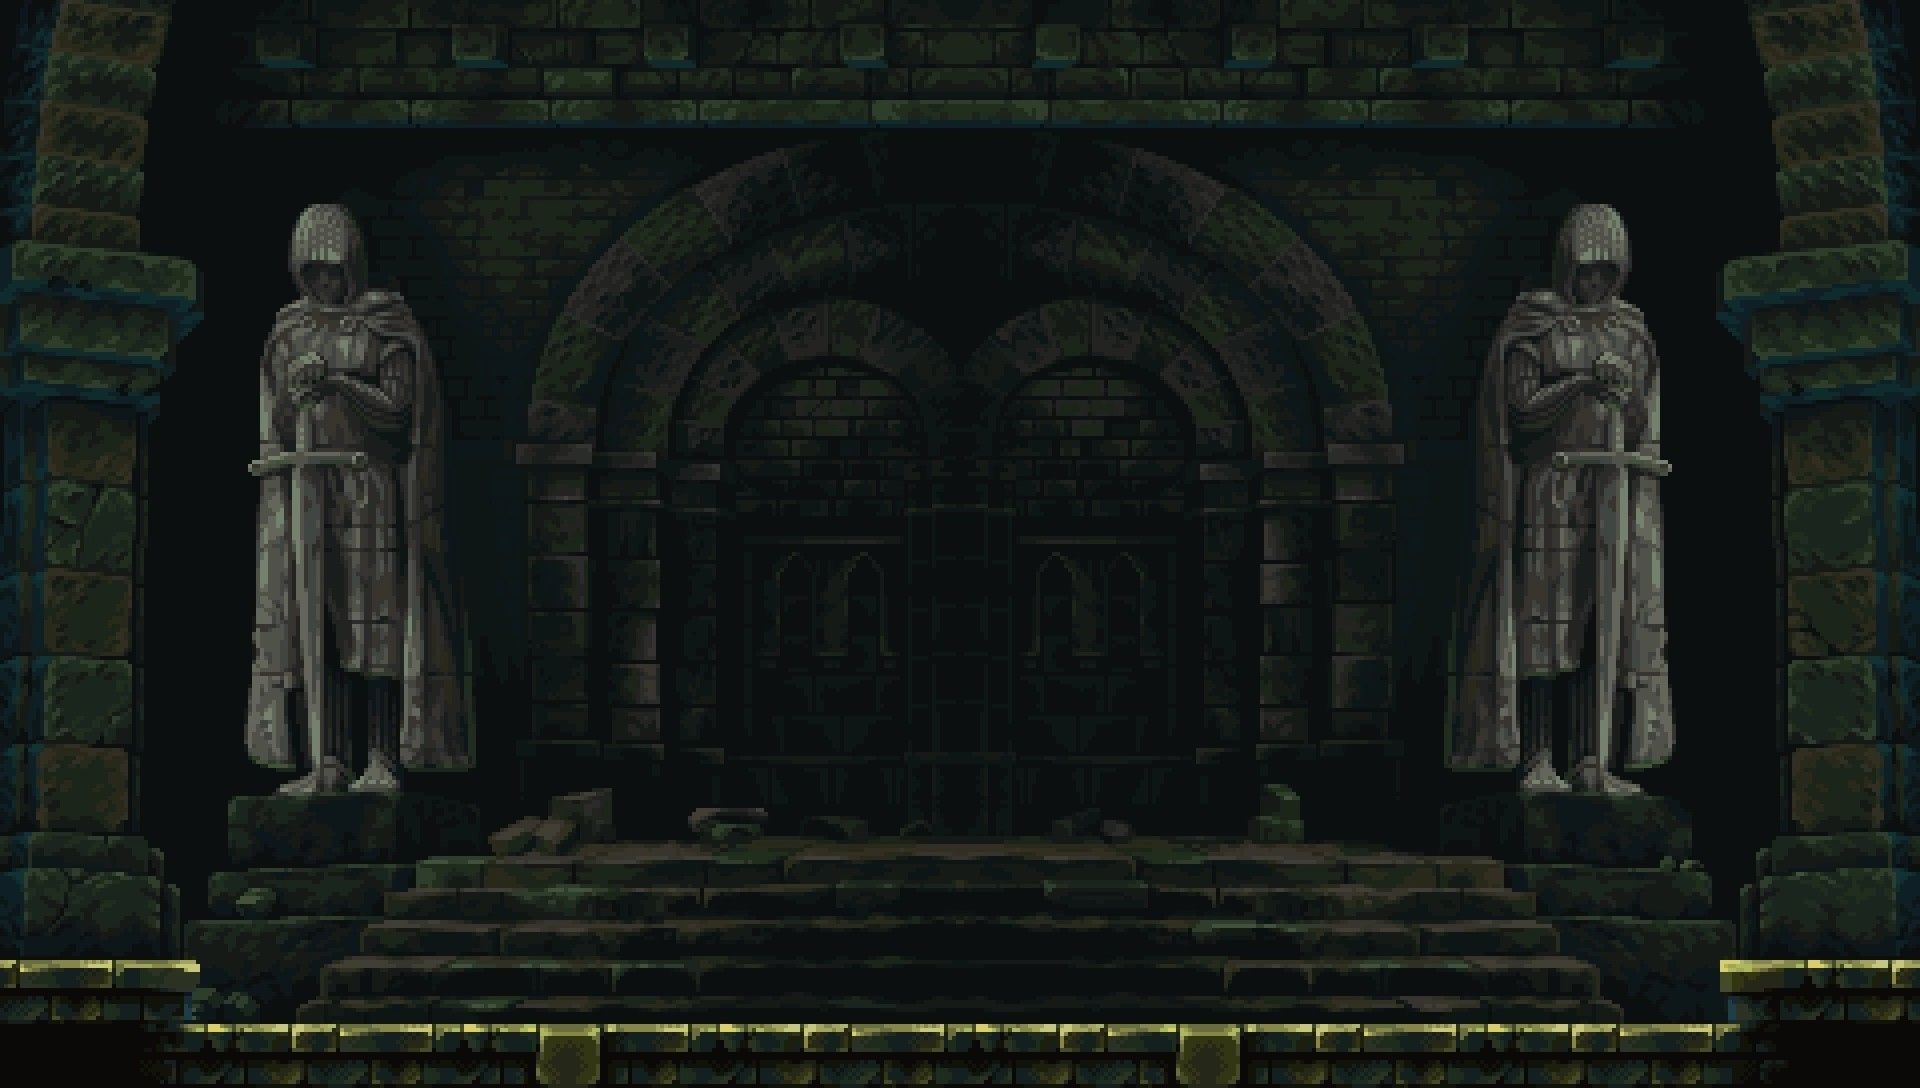
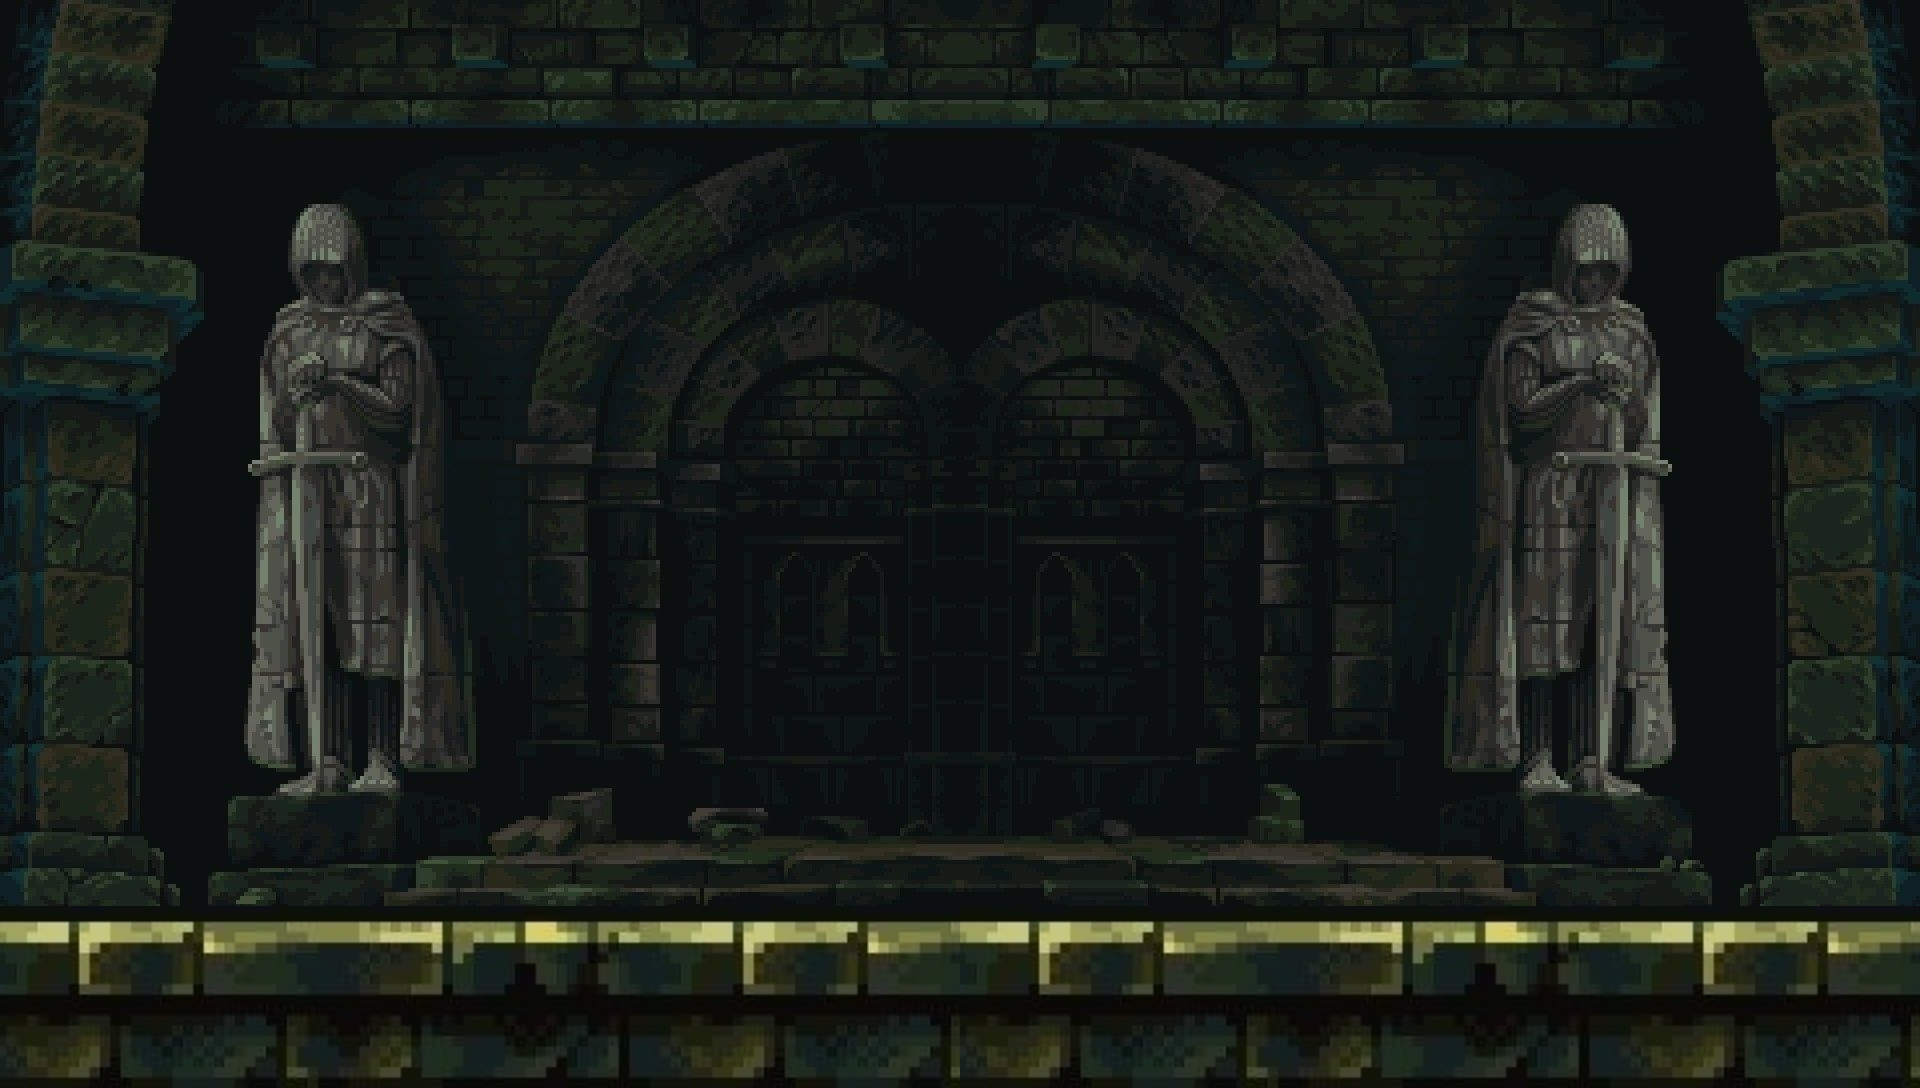
change backgrounds for levels

Changed region(s): [[0.0, 0.8438, 1.0, 1.0]]

diff --git a/game.py b/game.py
@@ -6,6 +6,8 @@ from constants import (
     CLOCK,
     FPS,
     FOREST1,
+    CASTLE2,
+    CASTLE3,
     PANEL,
     HEIGHT,
     PANEL_HEIGHT,
@@ -42,58 +44,69 @@ def play_game(selected_char: int) -> None:
     enemy_start_position = WIDTH + 10
     enemy_target_position = 700
 
-    total_level_enemies = round + randint(4, 6)
+    current_level = 0
+    backgrounds = [FOREST1, CASTLE3, CASTLE2]
 
-    while total_level_enemies > 0:
-        player_walk_in(player, player_target_position, animations, round)
+    while current_level < 3:
+        total_level_enemies = round + randint(4, 6)
 
-        if total_level_enemies == 1:
-            play_boss_round(player, animations)
-            total_level_enemies -= 1
-        else:
-            current_round_enemies = min(randint(1, 2), total_level_enemies - 1)
-            enemies = [
-                create_enemy(randint(0, 1)) for _ in range(current_round_enemies)
-            ]
+        while total_level_enemies > 0:
+            player_walk_in(player, player_target_position, animations, current_level=current_level, round=round)
 
-            for i, enemy in enumerate(enemies):
-                enemy.x_pos = enemy_start_position + (1 - i) * 130
-                enemy.walk(target_x=enemy_target_position - (1 - i) * 130)
+            if total_level_enemies == 1:
+                play_boss_round(player, animations)
+                total_level_enemies -= 1
+            else:
+                current_round_enemies = min(randint(1, 2), total_level_enemies - 1)
+                enemies = [
+                    create_enemy(randint(0, 1)) for _ in range(current_round_enemies)
+                ]
 
-            # enemy walking sequence
-            enemies_moving = True
-            while enemies_moving:
-                enemies_moving = False
                 for i, enemy in enumerate(enemies):
-                    enemy.update_walk_pos(
-                        target_x=enemy_target_position - i * 130, speed=20
+                    enemy.x_pos = enemy_start_position + (1 - i) * 130
+                    enemy.walk(target_x=enemy_target_position - (1 - i) * 130)
+
+                # enemy walking sequence
+                enemies_moving = True
+                while enemies_moving:
+                    enemies_moving = False
+                    for i, enemy in enumerate(enemies):
+                        enemy.update_walk_pos(
+                            target_x=enemy_target_position - i * 130, speed=20
+                        )
+                        enemy.update_animation()
+                        if enemy.x_pos > enemy_target_position - i * 130:
+                            enemies_moving = True
+
+                    SCREEN.fill((0, 0, 0))
+                    draw_text(
+                        SCREEN,
+                        text=f"LEVEL: {current_level + 1} ROUND: {round}",
+                        x=WIDTH // 2,
+                        y=100,
+                        colour="white",
+                        size="lg",
+                        position="center",
                     )
-                    enemy.update_animation()
-                    if enemy.x_pos > enemy_target_position - i * 130:
-                        enemies_moving = True
+                    draw_characters(SCREEN, player, enemies, animations)
+                    pygame.display.update()
+                    CLOCK.tick(FPS)
 
-                SCREEN.fill((0, 0, 0))
-                draw_text(
-                    SCREEN,
-                    text=f"ROUND: {round}",
-                    x=WIDTH // 2,
-                    y=100,
-                    colour="white",
-                    size="lg",
-                    position="center",
+                play_round(
+                    enemies=enemies,
+                    player=player,
+                    animations=animations,
+                    background=backgrounds[current_level],
                 )
-                draw_characters(SCREEN, player, enemies, animations)
-                pygame.display.update()
-                CLOCK.tick(FPS)
+                total_level_enemies -= current_round_enemies
 
-            play_round(enemies=enemies, player=player, animations=animations)
-            total_level_enemies -= current_round_enemies
+                player_walk_out(player, WIDTH + 50, animations, 20)
+                round += 1
 
-            player_walk_out(player, WIDTH + 50, animations, 20)
-            round += 1
+        current_level += 1
 
 
-def play_round(enemies, player, animations) -> None:
+def play_round(enemies, player, animations, background) -> None:
     """
     Manages the game logic for a single round of combat.
 
@@ -121,7 +134,10 @@ def play_round(enemies, player, animations) -> None:
             if event.type == pygame.MOUSEBUTTONDOWN:
                 clicked = True
 
-        draw_bg(SCREEN, FOREST1)
+        background_img_scaled = pygame.transform.smoothscale(
+            background, (WIDTH, HEIGHT - PANEL_HEIGHT)
+        )
+        draw_bg(SCREEN, background_img_scaled)
 
         potion_button = Button(
             SCREEN,
@@ -184,7 +200,7 @@ def play_boss_round(player, animations):
     pass
 
 
-def player_walk_in(player, target_x: int, animations, round: int) -> None:
+def player_walk_in(player, target_x: int, animations, current_level: int, round: int) -> None:
     """
     Handles the animation of the player walking into the screen.
 
@@ -207,7 +223,7 @@ def player_walk_in(player, target_x: int, animations, round: int) -> None:
         SCREEN.fill((0, 0, 0))
         draw_text(
             SCREEN,
-            text=f"ROUND: {round}",
+            text=f"LEVEL: {current_level + 1} ROUND: {round}",
             x=WIDTH // 2,
             y=100,
             colour="white",

diff --git a/constants.py b/constants.py
@@ -60,6 +60,7 @@ BACK = pygame.image.load("graphics/buttons/back.png").convert_alpha()
 EXIT = pygame.image.load("graphics/buttons/exit.png").convert_alpha()
 QUIT = pygame.image.load("graphics/buttons/quit.png").convert_alpha()
 
+
 # STATS
 CHARACTERS = [
     {
